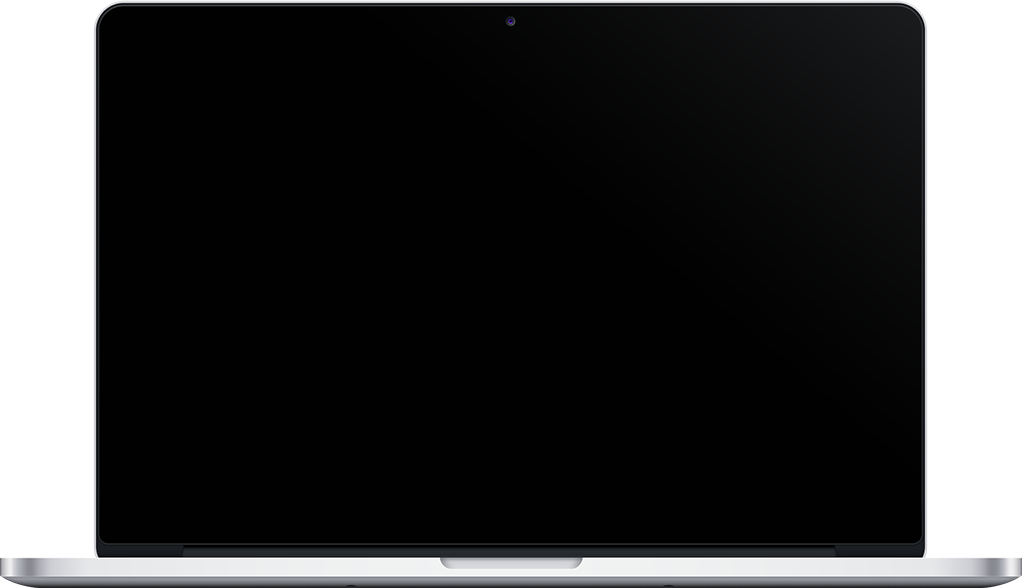
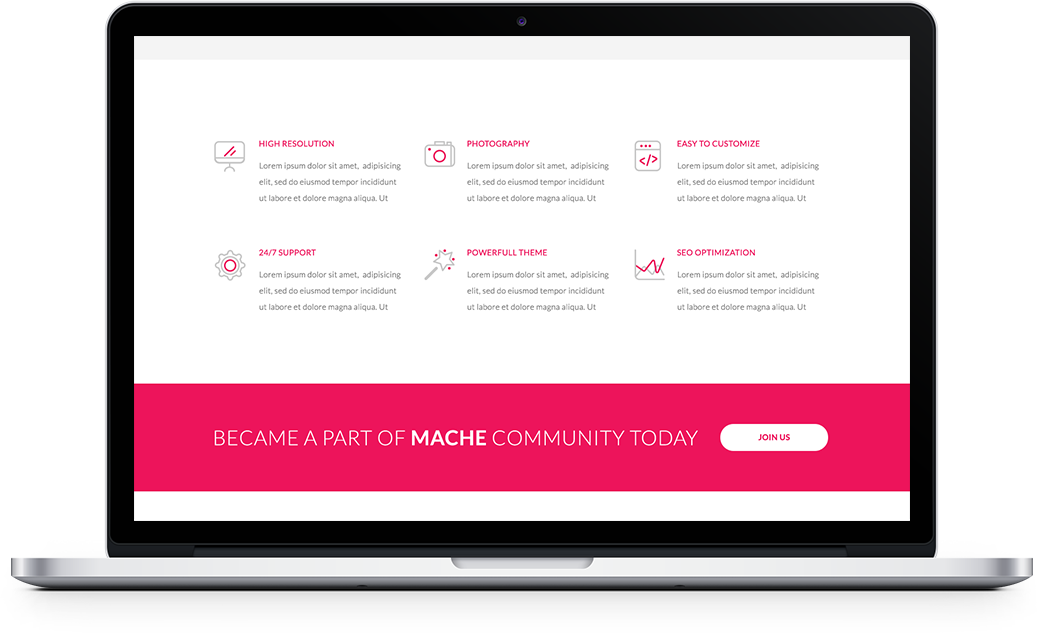
Fixed macbook class, fixed image

diff --git a/index.html b/index.html
@@ -12,7 +12,7 @@
     </head>
 	<body>
 		<header class="jumbotron">
-			<section class="container navi">
+			<div class="container navi">
 				<div class="navihead">
 					<h3>///&nbsp;</h3><h3>Mache</h3>
 				</div>
@@ -25,8 +25,8 @@
 						<li><a href="#">Contact</a></li>
 					</ul>
 				</div>
-			</section>
-			<section class="container hero">
+			</div>
+			<div class="container hero">
 				<div class="herohead">
 					<h1>Mache&nbsp;</h1><h1>free psd template</h1>
 				</div>
@@ -40,41 +40,32 @@
 				<div class="herobutton">
 					<button class="corebutton">Show more</button>
 				</div>
-			</section>
+			</div>
 		</header>
 		<section class="pinkline">
 		</section>
 		<section class="lightgreybg">
-			<div class="mcbook  container">
-				<div  class="mcbookheader">
-					<h1>
-						Powerfull PSD templates available for free!
-					</h1>
-					<hr class="line"/>
-					<p>
-						Lorem ipsum dolor sit amet, consectetur adipiscing elit. Donec condimentum nisi est, vel mattis eros pellentesque et. Duis pharetra tincidunt justo, a maximus felis porta interdum. In laoreet efficitur neque in dapibus. Fusce vitae odio at nunc fermentum rhoncus sit amet ac velit. Vestibulum ac lacus ut magna tristique commodo. Maecenas posuere luctus metus vitae sagittis. Duis pharetra ex vel neque sollicitudin pellentesque. Nullam in nisi ut leo maximus blandit. Vivamus interdum id eros fermentum commodo. Phasellus accumsan volutpat sem, et maximus tellus pharetra quis. Pellentesque sed orci a libero dictum facilisis non et nulla. Quisque elementum purus vitae libero ultricies, a posuere arcu tempor.
-					</p>
-					<a href="#" class="video">
-						<p>SEE THE VIDEO&nbsp;</p>
-						<p class="fa fa-play-circle-o"></p>
-					</a>
-				</div>		
-				<div class="emptydiv">
+			<div class="container mcbook">
+				<div class="mcbookhead">
+					<div  class="mcbookheader">
+						<h1>
+							Powerfull PSD templates available for free!
+						</h1>
+						<hr class="line"/>
+						<p>
+							Lorem ipsum dolor sit amet, consectetur adipiscing elit. Donec condimentum nisi est, vel mattis eros pellentesque et. Duis pharetra tincidunt justo, a maximus felis porta interdum. In laoreet efficitur neque in dapibus. Fusce vitae odio at nunc fermentum rhoncus sit amet ac velit. Vestibulum ac lacus ut magna tristique commodo. Maecenas posuere luctus metus vitae sagittis. Duis pharetra ex vel neque sollicitudin pellentesque. Nullam in nisi ut leo maximus blandit. Vivamus interdum id eros fermentum commodo. Phasellus accumsan volutpat sem, et maximus tellus pharetra quis. Pellentesque sed orci a libero dictum facilisis non et nulla. Quisque elementum purus vitae libero ultricies, a posuere arcu tempor.
+						</p>
+						<a href="#" class="video">
+							<p>SEE THE VIDEO&nbsp;</p>
+							<p class="fa fa-play-circle-o"></p>
+						</a>
+					</div>
 				</div>
-			</div>
-		</section>
-		<section class="mcbookimage">
-			<div class="emptydiv">
-			</div>
-			<div class="imagediv">
-				<div class="imageinner">
-					<img src="screen.jpg"/>
+				<div class="mcbookimage">
+					<div class="imagediv">
+						<img src="Macbook.png"/>
+					</div>
 				</div>
-				<div class="imageouter">
-					<img src="Macbook.png"/>
-				</div>
-
-
 			</div>
 		</section>
 	</body>

diff --git a/style.css b/style.css
@@ -1,4 +1,4 @@
-.nodecorationahref, .navi .navimenu ul li a, .mcbook .mcbookheader .video {
+.nodecorationahref, .navi .navimenu ul li a, .mcbook .mcbookhead .mcbookheader .video {
   text-decoration: none;
   color: #FFF;
   font-weight: bold;
@@ -6,14 +6,13 @@
   transition-duration: 0.75s; }
 
 .lightgreybg {
-  margin-top: -40px;
   width: 100%;
+  margin-top: -50px;
   background-color: #f4f4f4; }
 
 .container {
   width: 1170px;
-  margin: 0 16px 0 16px;
-  padding-bottom: 100px;
+  padding: 0 16px 100px 16px;
   color: #a7a7a7; }
 
 .line {
@@ -60,7 +59,8 @@
   background-image: url("headerpicture.jpg");
   width: 100%;
   background-size: cover;
-  z-index: 999; }
+  position: relative;
+  z-index: 1; }
 
 .hero {
   display: flex;
@@ -89,43 +89,35 @@
   transform: skewY(-0.5deg);
   position: relative;
   top: -45px;
-  z-index: -1; }
+  z-index: 0; }
 
 .mcbook {
   display: flex; }
-  .mcbook .emptydiv {
-    flex: 3; }
-  .mcbook .mcbookheader {
+  .mcbook .mcbookhead {
     display: flex;
-    flex: 2;
-    padding-top: 100px;
+    flex: 0.75; }
+    .mcbook .mcbookhead .mcbookheader {
+      display: flex;
+      padding-top: 100px;
+      display: flex;
+      flex-direction: column; }
+      .mcbook .mcbookhead .mcbookheader .line {
+        margin-left: 0; }
+      .mcbook .mcbookhead .mcbookheader .video {
+        display: inline-flex;
+        align-items: center;
+        color: #ed145b; }
+        .mcbook .mcbookhead .mcbookheader .video .fa-play-circle-o {
+          font-size: 27px; }
+  .mcbook .mcbookimage {
     display: flex;
-    flex-direction: column;
-    flex: 2; }
-    .mcbook .mcbookheader .line {
-      margin-left: 0; }
-    .mcbook .mcbookheader .video {
-      display: inline-flex;
-      align-items: center;
-      color: #ed145b; }
-      .mcbook .mcbookheader .video .fa-play-circle-o {
-        font-size: 27px; }
-
-.mcbookimage {
-  display: flex; }
-  .mcbookimage .emptydiv {
-    flex: 3; }
-  .mcbookimage .imagediv {
-    display: flex;
-    justify-content: center;
-    margin-top: -550px;
-    margin-right: 15px; }
-    .mcbookimage .imagediv .imageinner {
-      position: absolute;
-      z-index: 100;
-      margin-top: 40px; }
-    .mcbookimage .imagediv .imageouter {
-      position: relative;
-      z-index: 50; }
+    flex: 1;
+    padding-top: 75px; }
+    .mcbook .mcbookimage .imagediv {
+      display: flex;
+      position: absolute; }
+      .mcbook .mcbookimage .imagediv img {
+        width: 100%;
+        height: 100%; }
 
 /*# sourceMappingURL=style.css.map */

diff --git a/style.scss b/style.scss
@@ -11,15 +11,14 @@ $lightgreybg: #f4f4f4;
 }
 
 .lightgreybg {
-	margin-top: -40px;
 	width: 100%;
+	margin-top: -50px;
 	background-color: $lightgreybg;
 }
 
 .container {
 	width: 1170px;
-	margin: 0 16px 0 16px;
-	padding-bottom: 100px;
+	padding: 0 16px 100px 16px;
 	color: $coregrey;
 }
 
@@ -90,8 +89,12 @@ $lightgreybg: #f4f4f4;
 	background-image: url('headerpicture.jpg');
 	width: 100%;
 	background-size: cover;
-	z-index: 999;
+	position: relative;
+	z-index: 1;
+
 }
+
+
 
 .hero {
 	display: flex;
@@ -123,6 +126,8 @@ $lightgreybg: #f4f4f4;
 	}
 }
 
+
+
 .pinkline {
 	width: 100%;
 	height: 25px;
@@ -130,66 +135,57 @@ $lightgreybg: #f4f4f4;
 	transform: skewY(-0.50deg);
 	position: relative;
 	top: -45px;
-	z-index: -1;
+	z-index: 0;
 }
 
 .mcbook {
 	display: flex;
 
-	.emptydiv {
-		flex: 3;
-	}
-
-	.mcbookheader {
-
+	.mcbookhead {
 		display: flex;
-		flex: 2;
-		padding-top: 100px;
-		display: flex;
-		flex-direction: column;
-		flex: 2;
+		flex: 0.75;
 
-		.line {
-			margin-left: 0;
-		}
 
-		.video {
-			display: inline-flex;
-			align-items: center;
-			color: $corepink;
-			@extend .nodecorationahref;
+		.mcbookheader {
 
-			.fa-play-circle-o {
-				font-size: 27px;
+			display: flex;
+			padding-top: 100px;
+			display: flex;
+			flex-direction: column;
 
+			.line {
+				margin-left: 0;
+			}
+
+			.video {
+				display: inline-flex;
+				align-items: center;
+				color: $corepink;
+				@extend .nodecorationahref;
+
+				.fa-play-circle-o {
+					font-size: 27px;
+
+				}
 			}
 		}
 	}
-}
 
-.mcbookimage {
-	display: flex;
-	.emptydiv {
-		flex: 3;		
-	}
-
-	.imagediv {
+	.mcbookimage {
 		display: flex;
-		justify-content: center;
-		margin-top: -550px;
-		margin-right: 15px;
+		flex: 1;
+		padding-top: 75px;
 
-		.imageinner {
+		.imagediv {
+			display: flex;
 			position: absolute;
-			z-index: 100;
-			margin-top: 40px;
-			
-		}
-		.imageouter {
-			position: relative;
-			z-index: 50;
-		}
 
+			img {
+				width: 100%;
+				height: 100%;
 
+			}
+
+		}
 	}
 }
